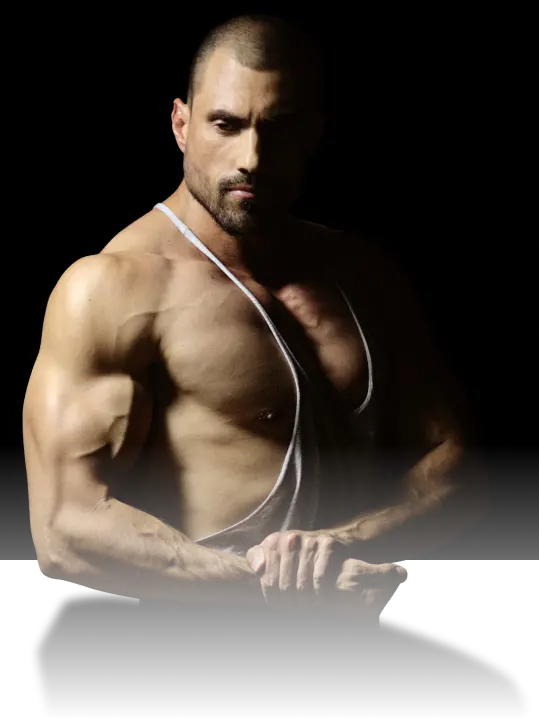
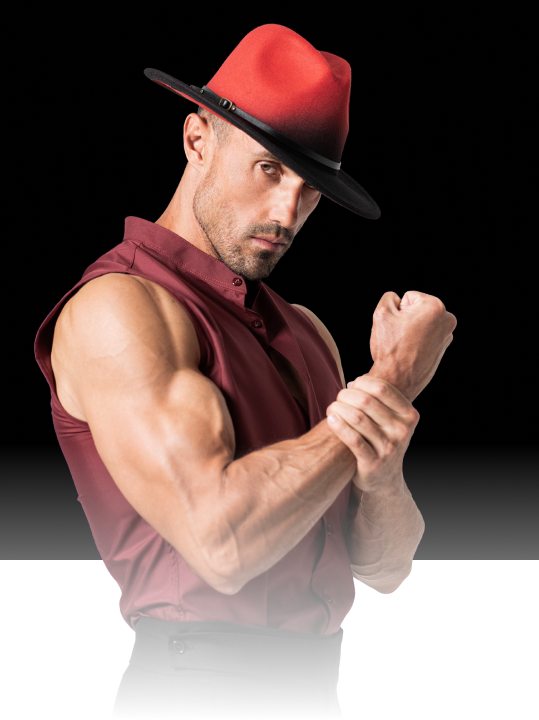
new photo

diff --git a/components/About.vue b/components/About.vue
@@ -4,8 +4,6 @@
             <div class="about__image text-center col-lg-4">
                 <img class="img-fluid" src="/img/about-2.png" />
                 <!-- <img src="/img/about_img.webp" /> -->
-                <!-- <nuxt-img format="webp" src="/img/about-2.png" :placeholder="15" /> -->
-
             </div>
             <div class="about__text col-lg-8">
                 <h2 class="about__title">Рамис Сахибов</h2>
